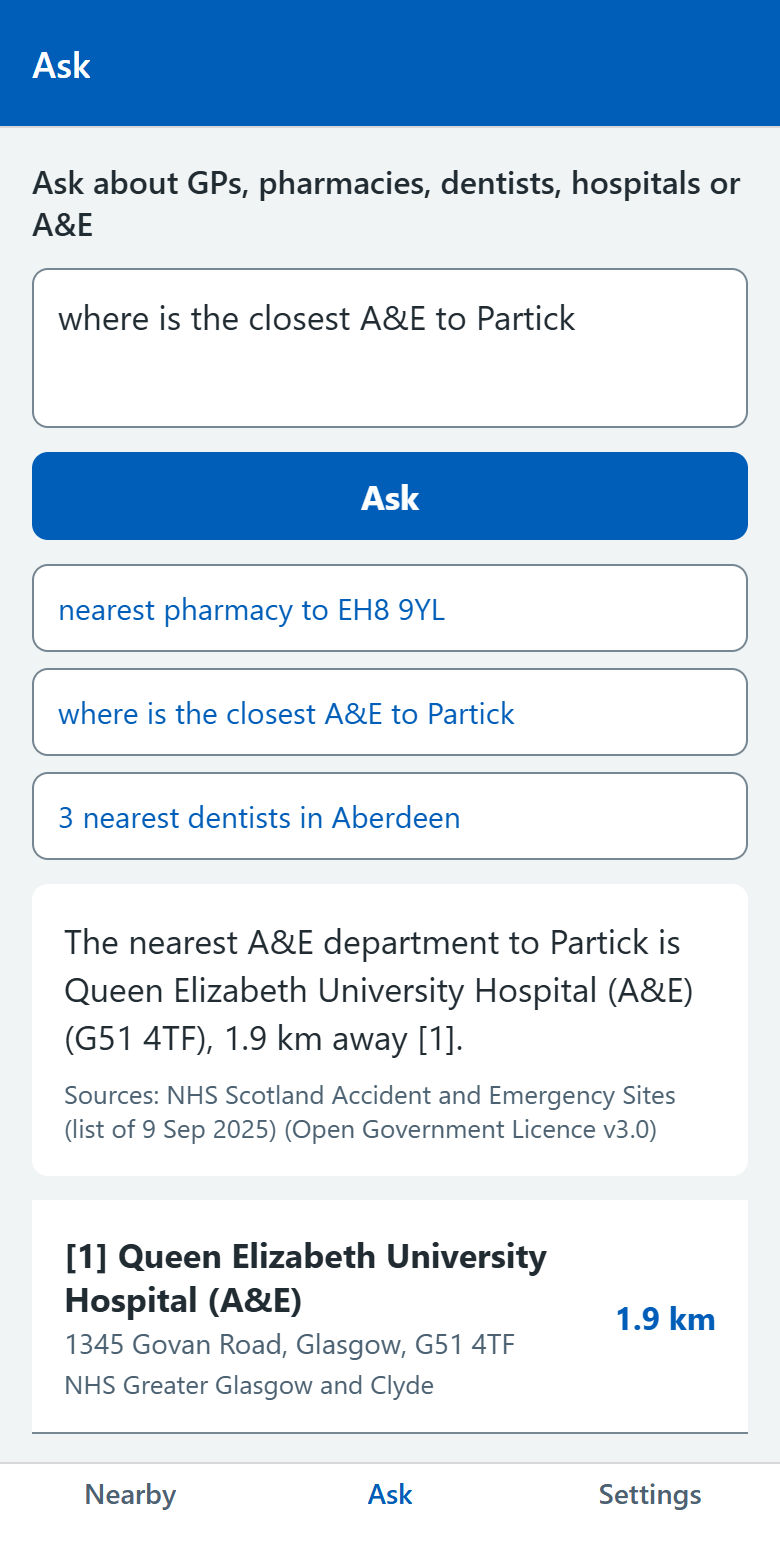
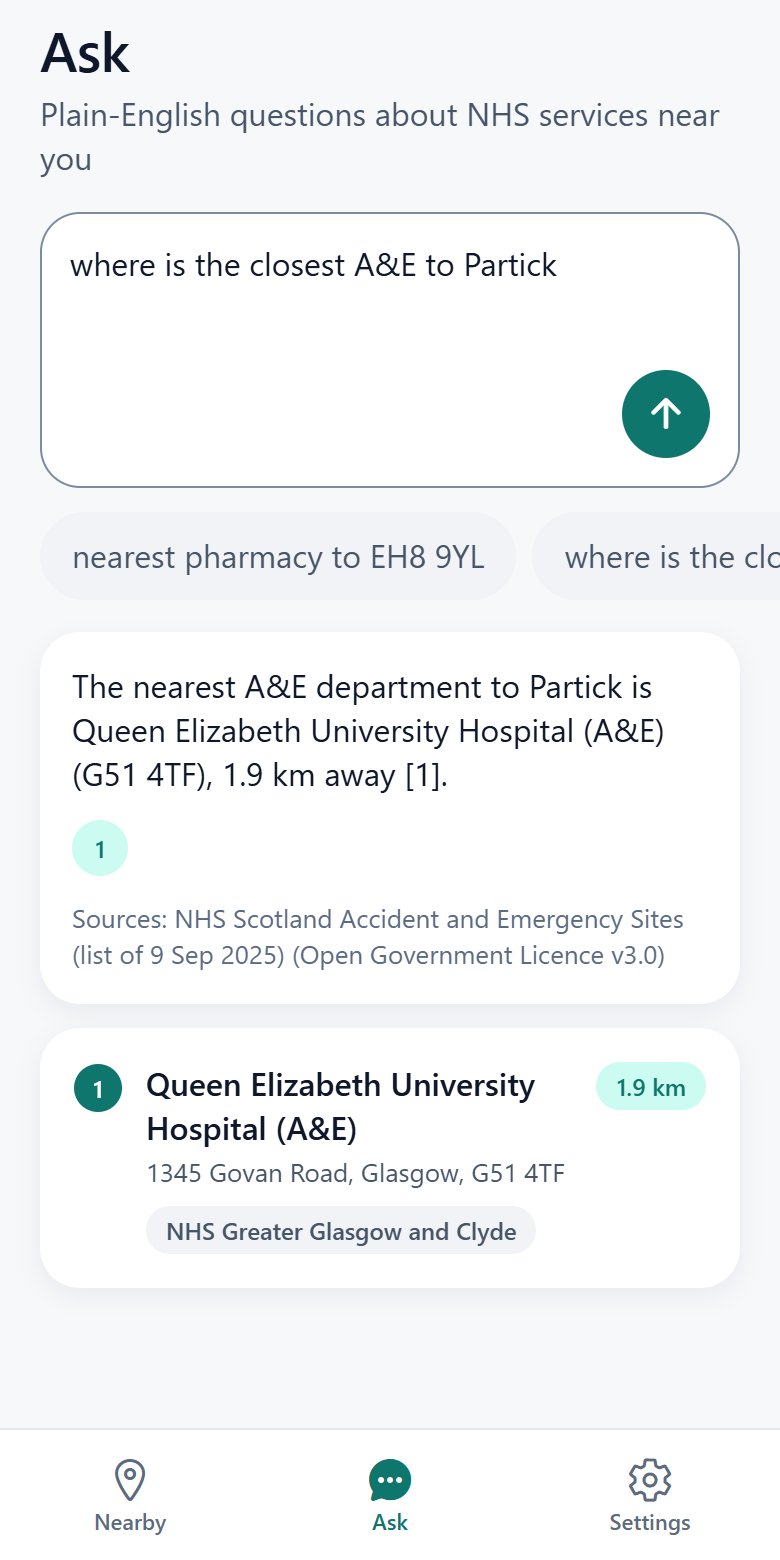
docs: refresh screenshots with detail and dark mode views

diff --git a/README.md b/README.md
@@ -2,9 +2,9 @@
 
 Find the nearest GP, pharmacy, dentist, hospital or A&E in Scotland from NHS Scotland open data, on iOS, Android and the web from one TypeScript codebase, with a natural-language box that answers "nearest pharmacy to EH8 9YL" or "where is the closest A&E to Partick" and cites the rows it used.
 
-| Nearby (list) | Nearby (map) | Ask |
-|---|---|---|
-| ![Nearby list](docs/nearby-list.png) | ![Nearby map](docs/nearby-map.png) | ![Ask](docs/ask.png) |
+| Nearby (list) | Nearby (map) | Ask | Facility detail | Nearby (dark) |
+|---|---|---|---|---|
+| ![Nearby list](docs/nearby-list.png) | ![Nearby map](docs/nearby-map.png) | ![Ask](docs/ask.png) | ![Facility detail](docs/facility.png) | ![Nearby list, dark mode](docs/nearby-list-dark.png) |
 
 Screenshots are the web export rendered by headless Playwright (`make screenshots`) against the committed sample data. No iOS or Android build was possible on the machine this was written on (no Java, Android SDK or Xcode), so the native paths are type-checked and unit-tested with mocks but have not been run on a device. See [Known limitations](#known-limitations).
 
